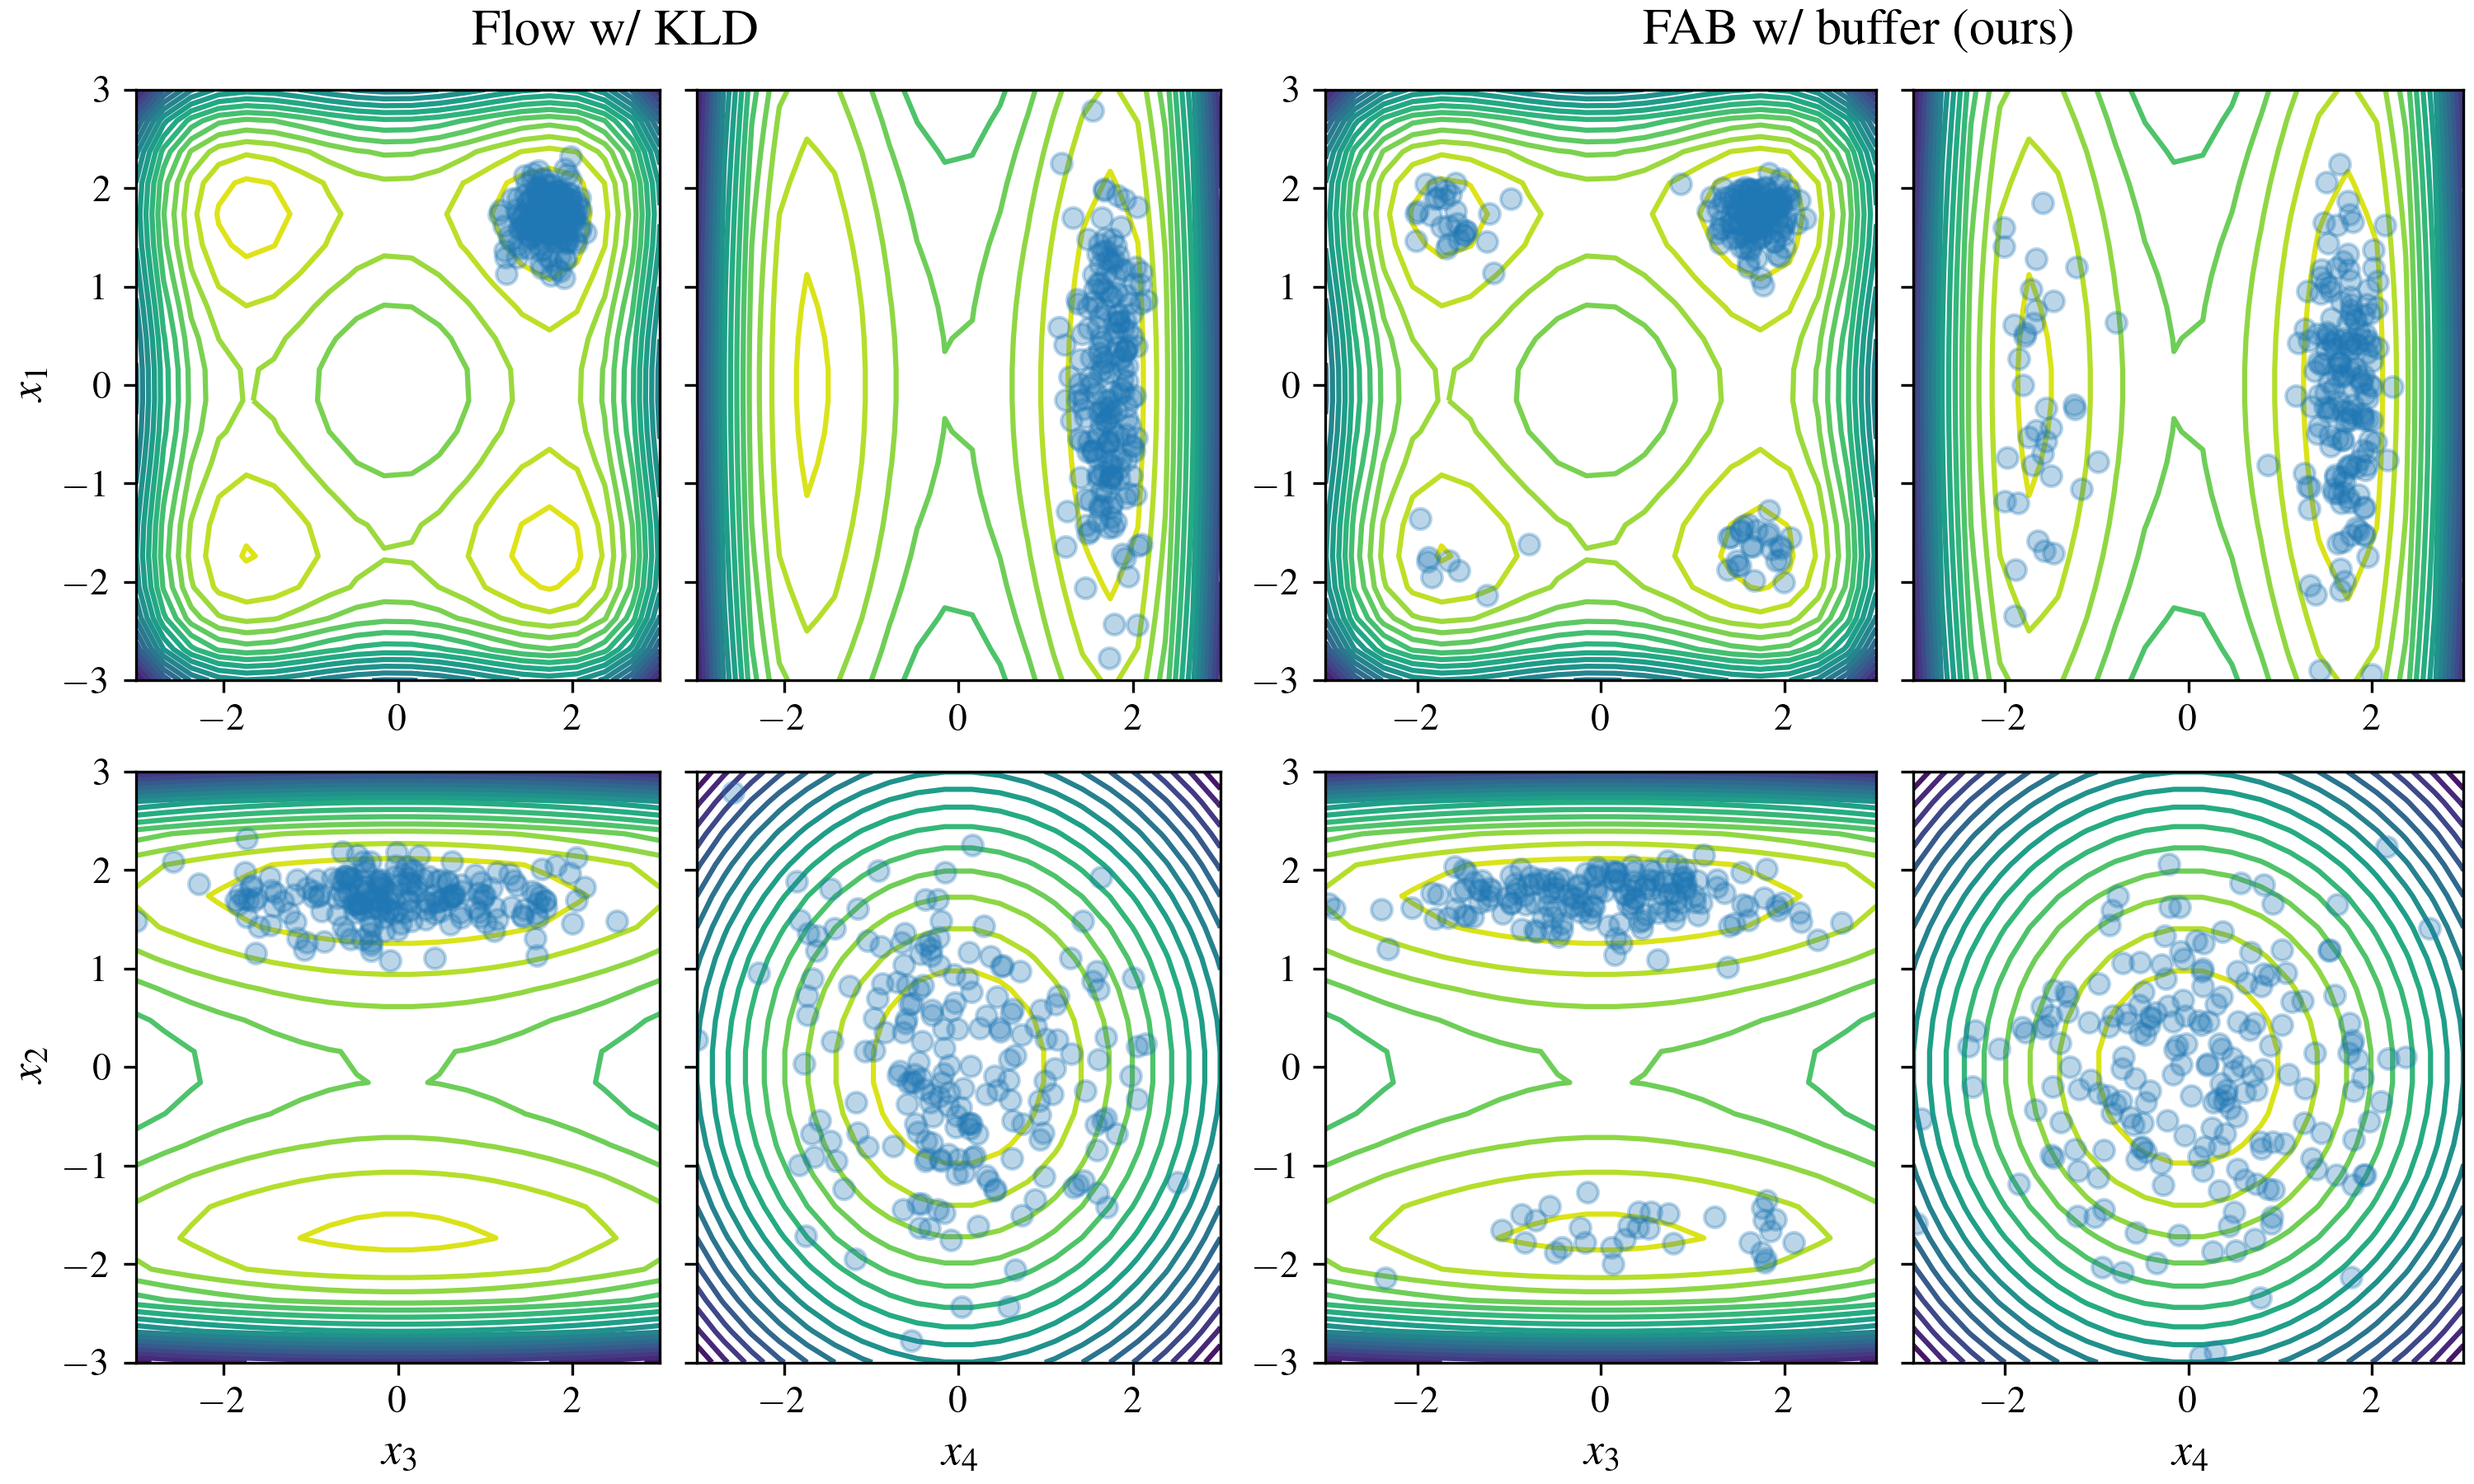
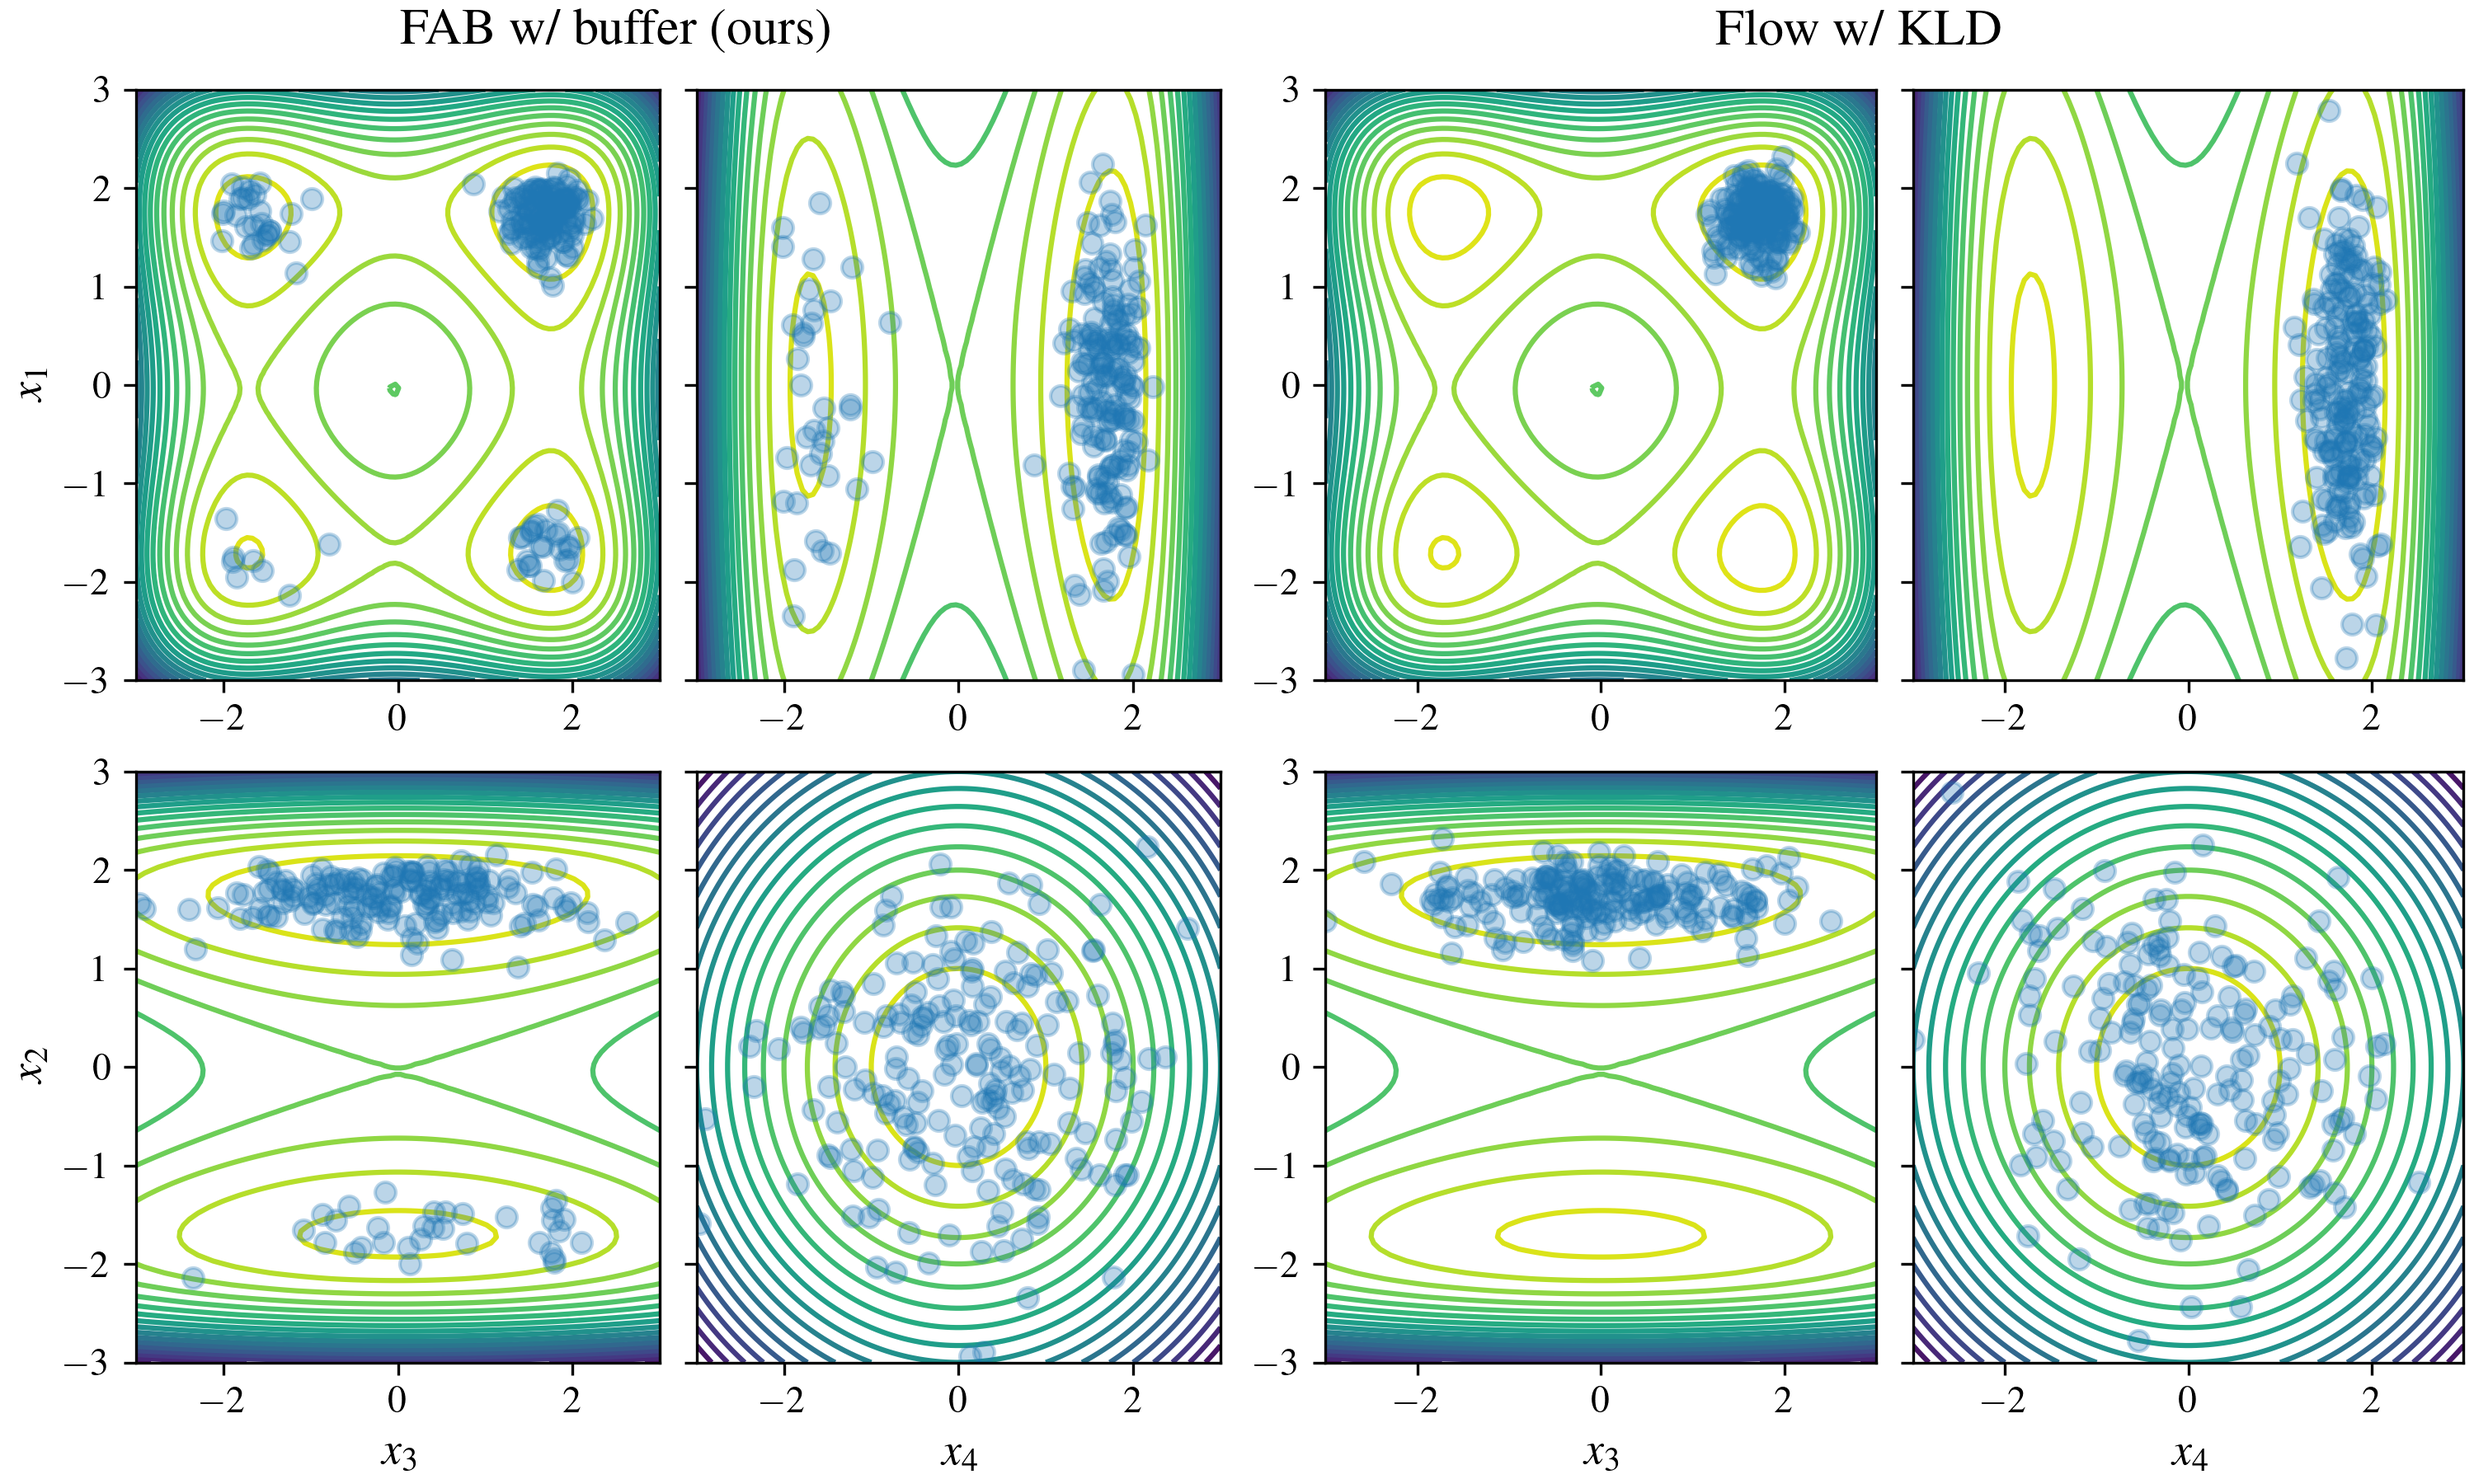
feat: miscalenous updates getting paper ready

diff --git a/examples/many_well_visualise_all_marginal_pairs.py b/examples/many_well_visualise_all_marginal_pairs.py
@@ -52,7 +52,7 @@ def setup_model(cfg: DictConfig, model_path):
     fab_model.load(model_path, "cpu")
     return fab_model
 
-def get_target_log_prob_marginal_pair(log_prob_2d, i, j):
+def get_target_log_prob_marginal_pair_alt(log_prob_2d, i: int, j: int):
     def log_prob(x):
         if i % 2 == 0:
             first_dim_x = torch.zeros_like(x)
@@ -69,6 +69,14 @@ def get_target_log_prob_marginal_pair(log_prob_2d, i, j):
         return log_prob_2d(first_dim_x) + log_prob_2d(second_dim_x)
     return log_prob
 
+def get_target_log_prob_marginal_pair(log_prob, i: int, j: int, total_dim: int):
+    def log_prob_marginal_pair(x_2d):
+        x = torch.zeros((x_2d.shape[0], total_dim))
+        x[:, i] = x_2d[:, 0]
+        x[:, j] = x_2d[:, 1]
+        return log_prob(x)
+    return log_prob_marginal_pair
+
 
 def plot_marginal_pairs(fab_model, dim, n_samples=500, plotting_bounds=(-3,3)):
     n_rows = dim // 2
@@ -79,8 +87,9 @@ def plot_marginal_pairs(fab_model, dim, n_samples=500, plotting_bounds=(-3,3)):
     for i in range(n_rows):
         for j in range(n_rows):
             if i != j:
-                log_prob_target = get_target_log_prob_marginal_pair(fab_model.target_distribution.log_prob_2D, i, j)
-                plot_contours(log_prob_target, bounds=plotting_bounds, ax=axs[i, j])
+                log_prob_target = get_target_log_prob_marginal_pair(
+                    fab_model.target_distribution.log_prob_2D, i, j, dim)
+                plot_contours(log_prob_target, bounds=plotting_bounds, ax=axs[i, j], grid_width_n_points=40)
                 plot_marginal_pair(samples_flow, ax=axs[i, j], marginal_dims=(i, j), bounds=plotting_bounds, alpha=0.2)
 
             if j == 0:

diff --git a/examples/paper_results/many_well/results_vis.py b/examples/paper_results/many_well/results_vis.py
@@ -38,9 +38,10 @@ def plot_marginals(cfg: DictConfig, supfig, model_name, plot_y_label):
 
     for i in range(2):
         for j in range(2):
-            target_log_prob = get_target_log_prob_marginal_pair(target.log_prob_2D, i, j+2)
+            # target_log_prob = get_target_log_prob_marginal_pair(target.log_prob_2D, i, j+2, dim)
+            target_log_prob = get_target_log_prob_marginal_pair(target.log_prob, i, j + 2, dim)
             plot_contours(target_log_prob, bounds=plotting_bounds, ax=axs[i, j],
-                          n_contour_levels=20)
+                          n_contour_levels=20, grid_width_n_points=100)
             plot_marginal_pair(samples_flow, marginal_dims=(i, j+2),
                                ax=axs[i, j], bounds=plotting_bounds, alpha=alpha)
 
@@ -65,8 +66,8 @@ def run(cfg: DictConfig):
     rc('xtick', labelsize=11)
     rc('ytick', labelsize=11)
 
-    model_names = ["flow_kld", "fab_buffer"]
-    titles = ["Flow w/ KLD", "FAB w/ buffer (ours)"]
+    model_names = ["fab_buffer", "flow_kld"]
+    titles = ["FAB w/ buffer (ours)", "Flow w/ KLD"]
 
     width, height = 10, 6
     fig = plt.figure(constrained_layout=True, figsize=(width, height))

diff --git a/examples/paper_results/many_well/results_vis_appendix.py b/examples/paper_results/many_well/results_vis_appendix.py
@@ -55,9 +55,10 @@ def plot_marginals(cfg: DictConfig, supfig, model_name, plot_y_label):
 
     for i in range(2):
         for j in range(2):
-            target_log_prob = get_target_log_prob_marginal_pair(target.log_prob_2D, i, j+2)
+            # target_log_prob = get_target_log_prob_marginal_pair(target.log_prob_2D, i, j+2, dim)
+            target_log_prob = get_target_log_prob_marginal_pair(target.log_prob, i, j + 2, dim)
             plot_contours(target_log_prob, bounds=plotting_bounds, ax=axs[i, j],
-                          n_contour_levels=20)
+                          n_contour_levels=20, grid_width_n_points=100)
             plot_marginal_pair(samples_flow, marginal_dims=(i, j+2),
                                ax=axs[i, j], bounds=plotting_bounds, alpha=alpha)
 

diff --git a/fab/target_distributions/gmm.py b/fab/target_distributions/gmm.py
@@ -77,7 +77,7 @@ class GMM(nn.Module, TargetDistribution):
     def performance_metrics(self, samples: torch.Tensor, log_w: torch.Tensor,
                             log_q_fn: Optional[LogProbFunc] = None,
                             batch_size: Optional[int] = None) -> Dict:
-        bias_normed = self.expectation_function(samples, log_w)
+        bias_normed = self.evaluate_expectation(samples, log_w)
         if log_q_fn:
             log_q_test = log_q_fn(self.test_set)
             log_p_test = self.log_prob(self.test_set)

diff --git a/fab/train_with_prioritised_buffer.py b/fab/train_with_prioritised_buffer.py
@@ -28,7 +28,7 @@ class PrioritisedBufferTrainer:
                  logger: Logger = ListLogger(),
                  plot: Optional[Plotter] = None,
                  max_gradient_norm: Optional[float] = 5.0,
-                 w_adjust_max_clip: float = 10,
+                 w_adjust_max_clip: float = 10.0,
                  w_adjust_in_buffer_after_update: bool = False,
                  save_path: str = ""):
         self.model = model

diff --git a/examples/paper_results/gmm/evaluation.py b/examples/paper_results/gmm/evaluation.py
@@ -65,7 +65,7 @@ def evaluate(cfg: DictConfig, model_name: str, num_samples=int(1e4)):
 
 @hydra.main(config_path="./", config_name="config.yaml")
 def main(cfg: DictConfig):
-    model_names = ["fab_buffer", "fab_no_buffer", "flow_kld", "flow_nis", "snf"]
+    model_names = ["fab_buffer"] #, "fab_no_buffer", "flow_kld", "flow_nis", "snf"]
     seeds = [1, 2, 3]
     num_samples = int(5e3)
 
